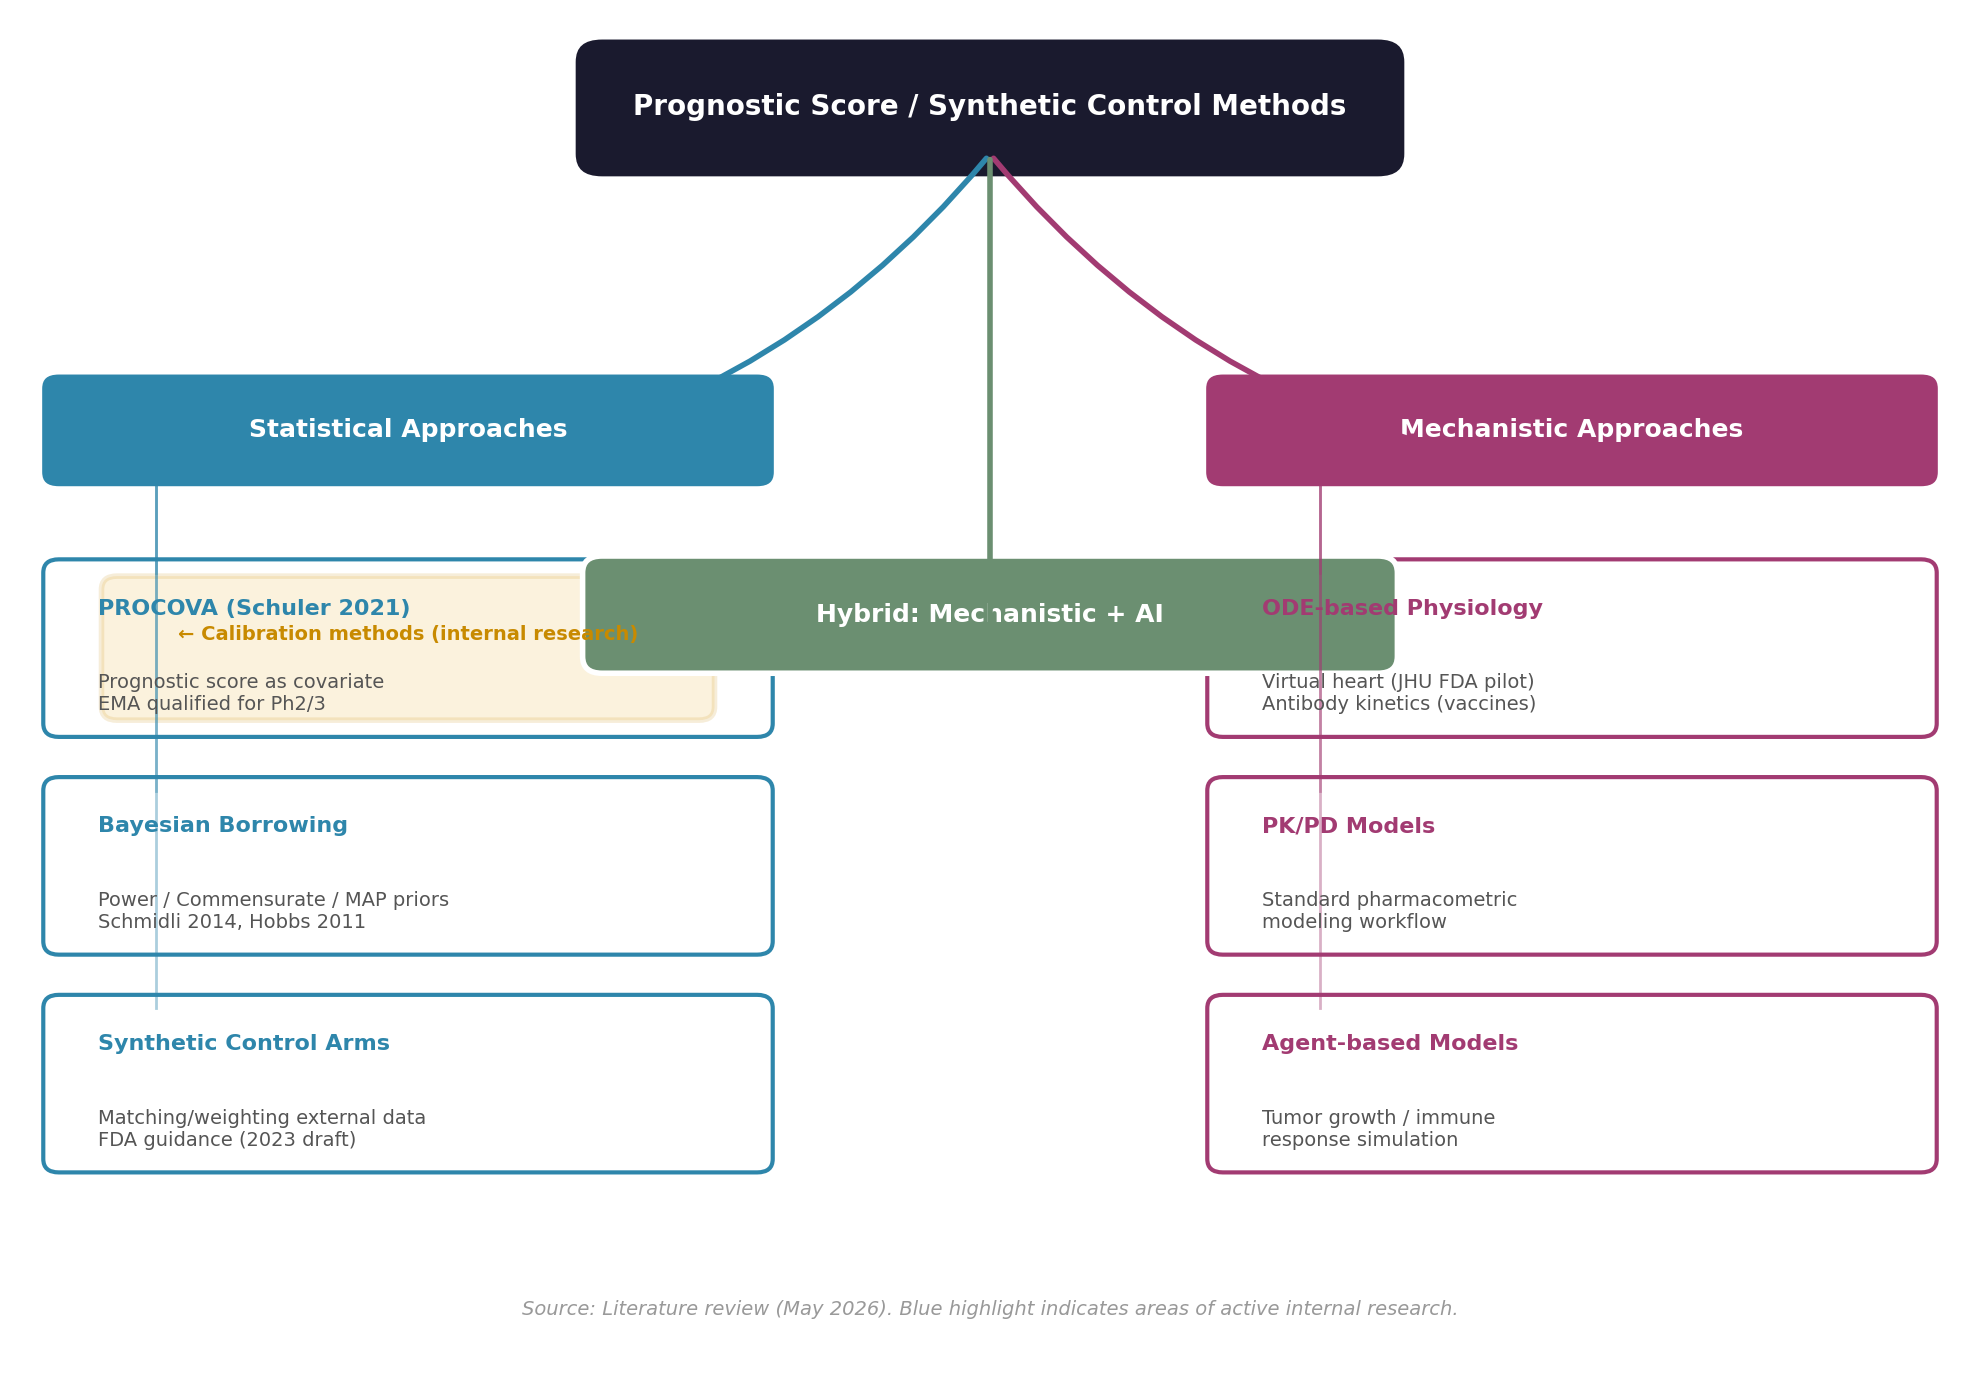
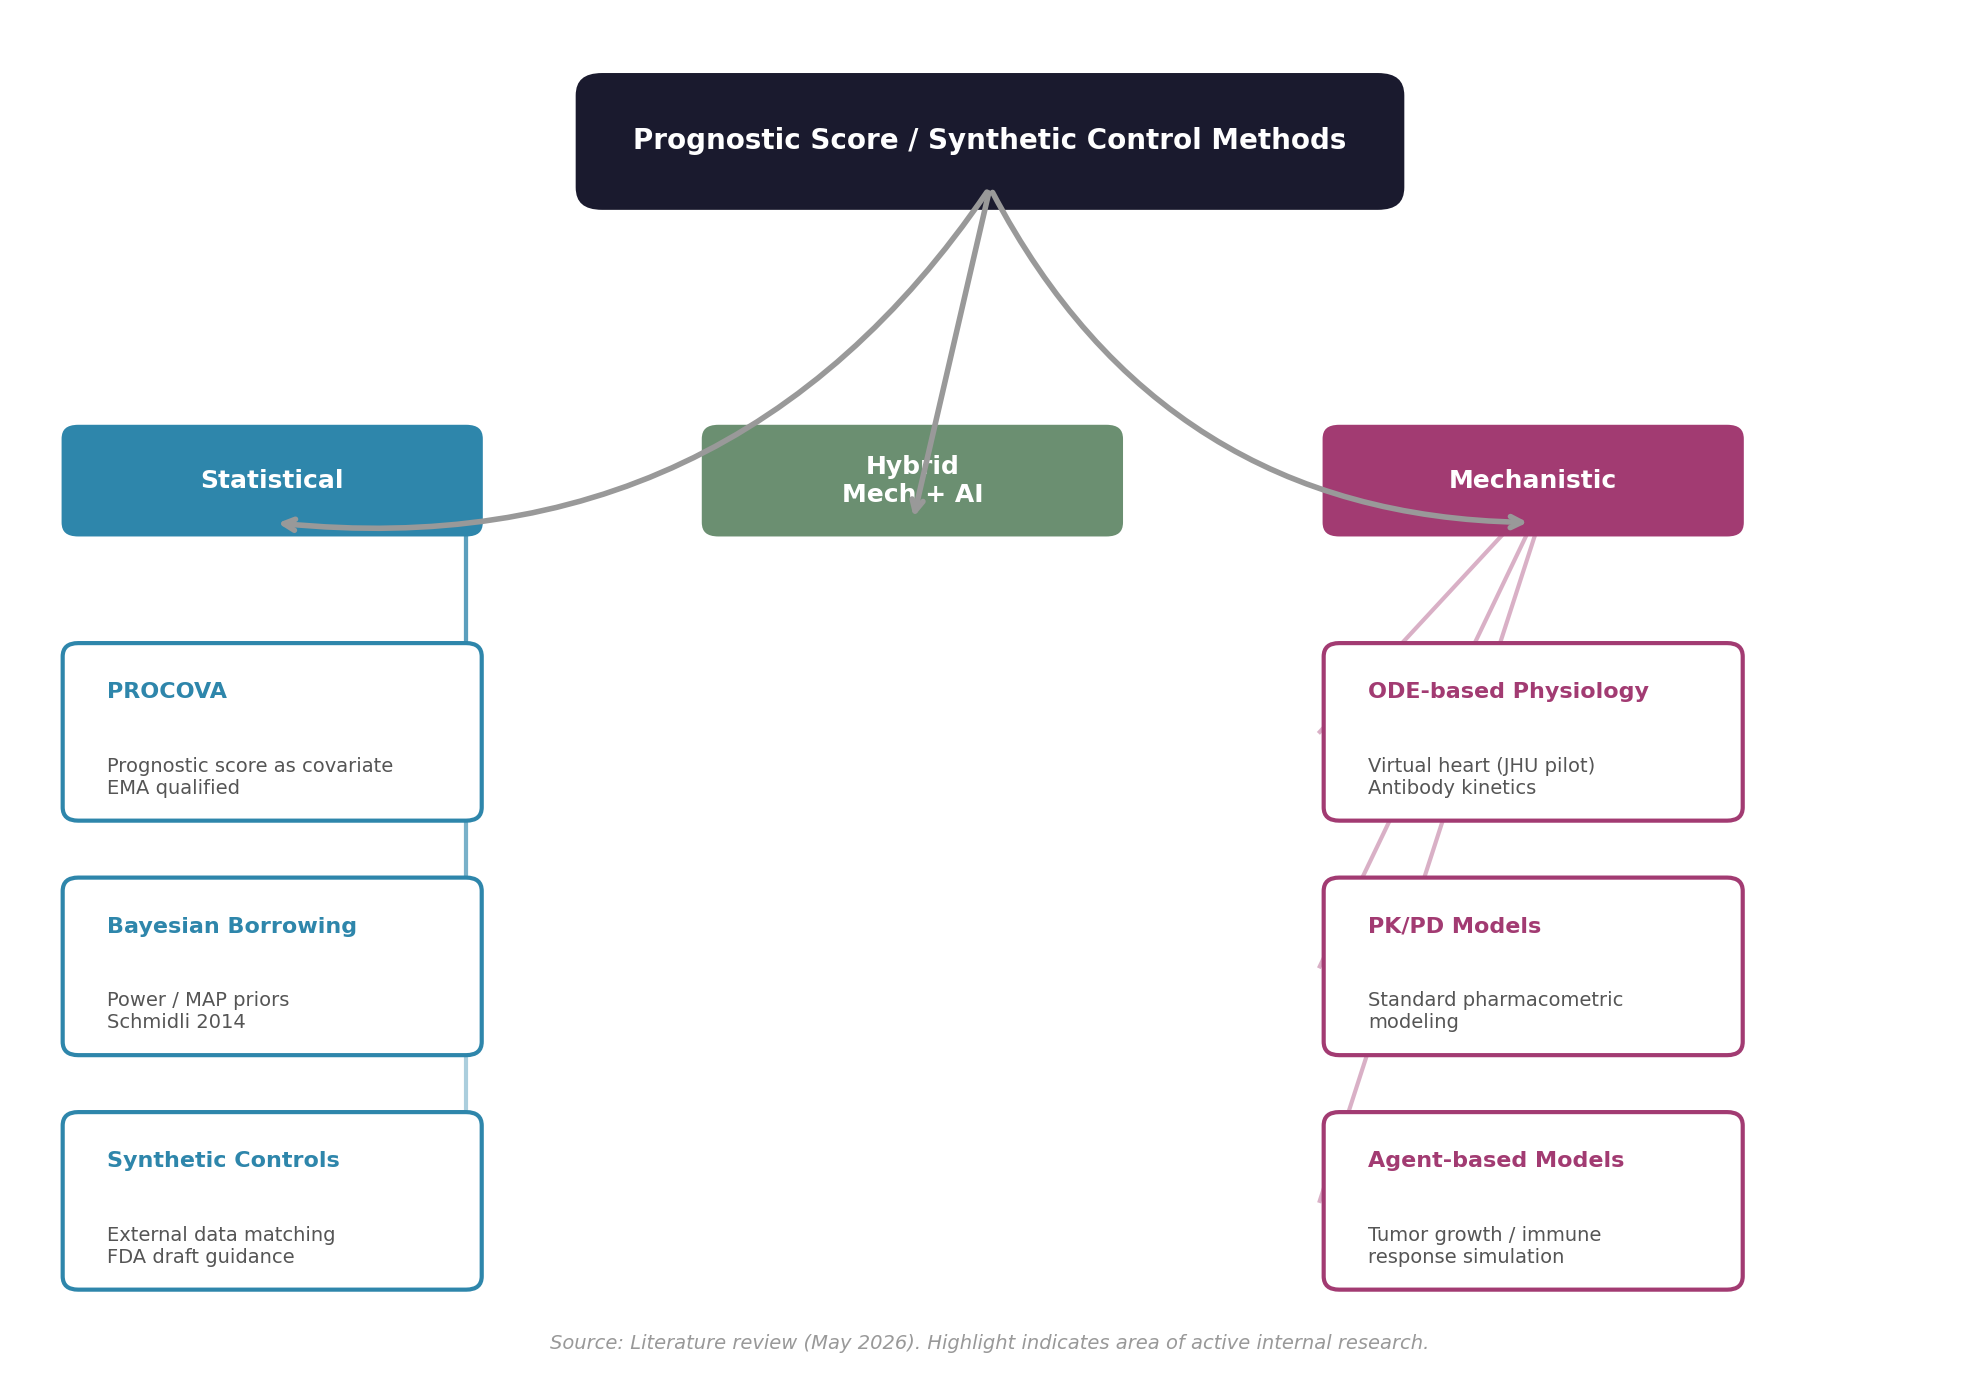
Fix taxonomy diagram: side-routed connector lines, no text overlap

diff --git a/digital-twin-landscape-survey.md b/digital-twin-landscape-survey.md
@@ -112,7 +112,7 @@ The regulatory path for digital twin-derived methodologies exists but is rigorou
 
 The digital twin space in clinical development has four segments:
 
-![Vendor Ecosystem](vendor-ecosystem.png)
+![Vendor Ecosystem](figures/vendor-ecosystem.png)
 
 ### 3.2 Segment Profiles
 
@@ -176,7 +176,7 @@ Critical gaps that vendors underemphasize:
 
 ### 4.1 Taxonomy of Methods
 
-![Methodological Taxonomy](method-taxonomy.png)
+![Methodological Taxonomy](figures/method-taxonomy.png)
 
 ### 4.2 PROCOVA in Detail
 
@@ -256,7 +256,7 @@ Based on vendor marketing, industry press, and consulting reports:
 
 ### 6.2 What the Evidence Actually Shows
 
-![Hype vs Reality](hype-reality.png)
+![Hype vs Reality](figures/hype-reality.png)
 
 | Claim | Reality Check |
 |-------|--------------|